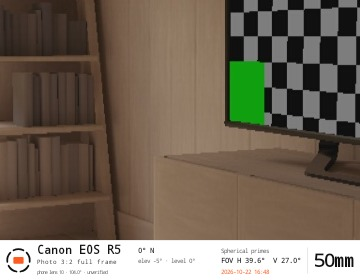
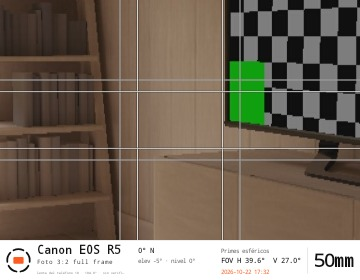
Las guías de composición salen también en las fotos, dentro del marco (v0.2.10-beta)

diff --git a/app/src/main/java/app/mado/data/PhotoAnnotator.kt b/app/src/main/java/app/mado/data/PhotoAnnotator.kt
@@ -10,6 +10,7 @@ import android.graphics.Rect
 import android.graphics.RectF
 import android.graphics.Typeface
 import app.mado.optics.Framing
+import app.mado.optics.Guide
 import java.io.ByteArrayOutputStream
 import kotlin.math.roundToInt
 
@@ -40,7 +41,7 @@ object PhotoAnnotator {
     private const val NEUTRAL = 0xFFB8B8B4.toInt()
 
     // ---------- Vista general: foto + todos los recuadros ----------
-    fun overview(jpeg: ByteArray, rotationDeg: Int, frames: List<AnnotFrame>, info: BarInfo): ByteArray {
+    fun overview(jpeg: ByteArray, rotationDeg: Int, frames: List<AnnotFrame>, info: BarInfo, guides: Set<Guide> = emptySet()): ByteArray {
         val photo = decodeRotated(jpeg, rotationDeg, sample = 2)
         val w = photo.width; val h = photo.height
         val unit = w / 38f                                   // marcos y etiquetas
@@ -75,14 +76,19 @@ object PhotoAnnotator {
             tagText.color = if (af.current) Color.BLACK else Color.WHITE
             c.drawText(text, l + unit * 0.35f, t + th * 0.78f, tagText)
         }
+        // Guías de composición dentro del encuadre actual.
+        frames.firstOrNull { it.current }?.let { cur ->
+            val gw = cur.frame.widthFrac.toFloat() * iw; val gh = cur.frame.heightFrac.toFloat() * ih
+            drawGuides(c, guides, w / 2f - gw / 2f, h / 2f - gh / 2f, gw, gh, unit / 12f)
+        }
         drawInfoBar(c, w.toFloat(), h.toFloat(), bar, barUnit, info)
         photo.recycle()
         return encode(out)
     }
 
     // ---------- Plano: la foto recortada al encuadre actual ----------
-    fun plano(jpeg: ByteArray, rotationDeg: Int, frames: List<AnnotFrame>, info: BarInfo): ByteArray {
-        val cur = frames.firstOrNull { it.current }?.frame ?: return overview(jpeg, rotationDeg, frames, info)
+    fun plano(jpeg: ByteArray, rotationDeg: Int, frames: List<AnnotFrame>, info: BarInfo, guides: Set<Guide> = emptySet()): ByteArray {
+        val cur = frames.firstOrNull { it.current }?.frame ?: return overview(jpeg, rotationDeg, frames, info, guides)
         val size = BitmapFactory.Options().apply { inJustDecodeBounds = true }.also { BitmapFactory.decodeByteArray(jpeg, 0, jpeg.size, it) }
         val rotated90 = rotationDeg % 180 != 0
         val W = if (rotated90) size.outHeight else size.outWidth      // medidas de la foto ya girada
@@ -125,6 +131,7 @@ object PhotoAnnotator {
         val c = Canvas(out)
         c.drawColor(PAPER)
         c.drawBitmap(body, 0f, 0f, null)
+        drawGuides(c, guides, 0f, 0f, w.toFloat(), h.toFloat(), unit / 8f)
         drawInfoBar(c, w.toFloat(), h.toFloat(), bar, unit, info)
         body.recycle()
         return encode(out)
@@ -147,6 +154,29 @@ object PhotoAnnotator {
     }
 
     private fun barHeight(unit: Float) = unit * 5.9f
+
+    private const val PHI_INV = 0.6180339887f
+
+    /** Guías de composición dentro del rectángulo (l, t, w, h): línea blanca con un borde oscuro para que se vea sobre cualquier fondo. */
+    private fun drawGuides(c: Canvas, guides: Set<Guide>, l: Float, t: Float, w: Float, h: Float, stroke: Float) {
+        if (guides.isEmpty()) return
+        val dark = Paint(Paint.ANTI_ALIAS_FLAG).apply { color = Color.argb(110, 0, 0, 0); style = Paint.Style.STROKE; strokeWidth = stroke * 2.4f }
+        val light = Paint(Paint.ANTI_ALIAS_FLAG).apply { color = Color.argb(235, 255, 255, 255); style = Paint.Style.STROKE; strokeWidth = stroke }
+        fun line(x1: Float, y1: Float, x2: Float, y2: Float) { c.drawLine(x1, y1, x2, y2, dark); c.drawLine(x1, y1, x2, y2, light) }
+        fun v(f: Float) = line(l + w * f, t, l + w * f, t + h)
+        fun hz(f: Float) = line(l, t + h * f, l + w, t + h * f)
+        if (Guide.THIRDS in guides) { v(1f / 3); v(2f / 3); hz(1f / 3); hz(2f / 3) }
+        if (Guide.GOLDEN in guides) { v(1f - PHI_INV); v(PHI_INV); hz(1f - PHI_INV); hz(PHI_INV) }
+        if (Guide.GRID in guides) for (i in 1..3) { v(i / 4f); hz(i / 4f) }
+        if (Guide.CROSS in guides) {
+            val cx = l + w / 2f; val cy = t + h / 2f; val a = minOf(w, h) * 0.05f
+            line(cx - a, cy, cx + a, cy); line(cx, cy - a, cx, cy + a)
+        }
+        if (Guide.SAFE in guides) for (f in listOf(0.93f, 0.90f)) {
+            val rl = l + w * (1 - f) / 2f; val rt = t + h * (1 - f) / 2f
+            c.drawRect(rl, rt, rl + w * f, rt + h * f, dark); c.drawRect(rl, rt, rl + w * f, rt + h * f, light)
+        }
+    }
 
     /** Reduce el texto hasta que quepa; si aun así no cabe, lo corta con «…». */
     private fun fit(p: Paint, text: String, maxW: Float, minSize: Float): String {

diff --git a/app/src/main/java/app/mado/ui/FovScreen.kt b/app/src/main/java/app/mado/ui/FovScreen.kt
@@ -97,6 +97,7 @@ import app.mado.diagnostics.CameraInfo
 import app.mado.diagnostics.DiagnosticsReport
 import app.mado.diagnostics.FovResults
 import app.mado.optics.Fov
+import app.mado.optics.Guide
 import app.mado.optics.Framing
 import org.json.JSONObject
 import java.time.Instant
@@ -359,6 +360,8 @@ fun FovScreen(
                 .put("padding", frame?.padding))
             pose?.let { put("orientation", JSONObject().put("heading_deg_magnetic", it.headingDeg).put("elevation_deg", it.elevationDeg).put("level_deg", it.levelDeg)) }
         }
+        val guidesNow = framing.guides                              // las guías elegidas van también en las fotos
+        meta.put("guides", org.json.JSONArray(guidesNow.map { it.name }))
         val annotFrames = frameDraws.map { app.mado.data.AnnotFrame(it.label, it.frame, it.current, it.detail) }
         val anglesText = target?.let {
             val v = Math.toDegrees(2.0 * kotlin.math.atan(kotlin.math.tan(it.hFovRad / 2.0) / it.aspect))
@@ -382,9 +385,9 @@ fun FovScreen(
                             val saved = withContext(Dispatchers.IO) {
                                 // Dos archivos con la barra de datos: la foto con los recuadros del kit y el plano recortado al encuadre.
                                 // (No se guarda la foto sin gráficos: es la misma imagen que la primera.)
-                                val overview = PhotoAnnotator.overview(result.jpeg, result.rotationDeg, annotFrames, info)
+                                val overview = PhotoAnnotator.overview(result.jpeg, result.rotationDeg, annotFrames, info, guidesNow)
                                 val marco = PhotoSaver.save(ctx, overview, 0, meta, now, suffix = "_marco", location = loc, headingDeg = pose?.headingDeg)
-                                val plano = PhotoAnnotator.plano(result.jpeg, result.rotationDeg, annotFrames, info)
+                                val plano = PhotoAnnotator.plano(result.jpeg, result.rotationDeg, annotFrames, info, guidesNow)
                                 PhotoSaver.save(ctx, plano, 0, meta, now, suffix = "_plano", location = loc, headingDeg = pose?.headingDeg)
                                 marco
                             }

diff --git a/app/src/main/java/app/mado/ui/FramingState.kt b/app/src/main/java/app/mado/ui/FramingState.kt
@@ -8,10 +8,8 @@ import app.mado.data.Camera
 import app.mado.data.CameraDb
 import app.mado.data.loc
 import app.mado.optics.Fov
+import app.mado.optics.Guide
 import app.mado.optics.Framing
-
-/** Guías de composición que se dibujan dentro del encuadre actual. */
-enum class Guide { THIRDS, GOLDEN, CROSS, GRID, SAFE }
 
 /** Selección del usuario para el modo marco: cámara, modo de grabación, juego de lentes y focal. */
 class FramingState(val db: CameraDb) {

diff --git a/app/src/main/java/app/mado/ui/FramingUi.kt b/app/src/main/java/app/mado/ui/FramingUi.kt
@@ -45,6 +45,7 @@ import app.mado.camera.ThermalGuard
 import app.mado.data.loc
 import app.mado.diagnostics.CameraInfo
 import app.mado.optics.Fov
+import app.mado.optics.Guide
 import app.mado.optics.Framing
 import java.util.Locale
 import kotlin.math.atan

diff --git a/app/src/main/java/app/mado/optics/Guide.kt b/app/src/main/java/app/mado/optics/Guide.kt
@@ -1,0 +1,4 @@
+package app.mado.optics
+
+/** Guías de composición que se dibujan dentro del encuadre actual (en el visor y en las fotos). */
+enum class Guide { THIRDS, GOLDEN, CROSS, GRID, SAFE }

diff --git a/README.md b/README.md
@@ -34,7 +34,7 @@ Elige una cámara, un modo de grabación y una focal, y Mado dibuja sobre el vis
 
 - **Visor (pantalla de inicio):** dibuja sobre el visor los recuadros de **todas las focales de tu kit a la vez** (por ejemplo 24, 35, 50 y 85), con la actual en naranja y sin oscurecer lo de afuera. Sensor, modo de grabación y anamórfico (el *squeeze* suma al aspecto) salen de la cámara elegida. Si el campo de la focal más ancha supera al del teléfono, la imagen del teléfono se achica y ese recuadro llena el visor.
 - **Visor a pantalla completa:** la imagen ocupa todo el ancho (vertical) o todo el alto (horizontal). Arriba a la izquierda, la cámara y el modo elegidos: **tocarlos abre la configuración** (cámara, modo, lentes, kit, ubicación). Abajo, **◀ focal ▶** y el obturador. La cámara usa una proporción parecida a la de tu pantalla, así que la imagen la llena casi toda. **Doble toque en la imagen** alterna la vista recortada: el encuadre actual llena el visor, «como saldría», con cámara, modo, focal y FOV H/V encima. Los recuadros son siempre horizontales, también con el teléfono en vertical. **Un toque** enfoca y mide la exposición en ese punto; en el panel hay una **compensación de exposición (EV)**. Un botón grande en el centro inicia la cámara; **■** la detiene y **☰** abre el menú. Pensado para pantallas chicas y de baja resolución.
-- **Guías de composición** dentro del encuadre actual: tercios, **proporción áurea**, cruz central, cuadrícula y zonas seguras (se eligen en el panel y se recuerdan). El menú ☰ muestra el logo, el nombre y la versión de la app.
+- **Guías de composición** dentro del encuadre actual: tercios, **proporción áurea**, cruz central, cuadrícula y zonas seguras (se eligen en el panel y se recuerdan) y **también salen en las fotos guardadas**, dentro del marco elegido. El menú ☰ muestra el logo, el nombre y la versión de la app.
 - **Una sola lente del teléfono a la vez**, fija, para que Android no cambie de lente sola y descuadre el cálculo.
 - **Captura de foto:** cada toma guarda **dos archivos** a resolución completa, con los datos también en el EXIF: la foto **con los recuadros del kit** (la focal actual en naranja, con su medida) y el **plano recortado exactamente al encuadre**, listo para storyboard. Los dos llevan una barra blanca con el logo; a la izquierda el **nombre de la cámara en grande**, el modo de grabación y la lente del teléfono; al centro la **brújula** (rumbo, elevación y nivel) y, si lo activas, la **ubicación**; a la derecha el juego de lentes, el campo de visión **FOV H/V** (horizontal y vertical), la fecha y la **focal en grande**. La ubicación es opcional, pide permiso y se lee una sola vez al disparar.
 - **Calibrar lentes** (menú ☰): mide el campo real de cada lente contra el calculado (regla teórica en el visor) y guarda las mediciones.

diff --git a/README.en.md b/README.en.md
@@ -34,7 +34,7 @@ Pick a camera, a recording mode and a focal length, and Mado draws on the viewfi
 
 - **Viewfinder (start screen):** draws **all the focal lengths of your kit at once** over the viewfinder (for example 24, 35, 50 and 85), the current one in orange, without dimming the outside. Sensor, recording mode and anamorphic squeeze (it multiplies the aspect) come from the chosen camera. If the widest focal length's field exceeds the phone's, the phone image shrinks and that frame fills the viewfinder.
 - **Full-screen viewfinder:** the image fills the full width (portrait) or full height (landscape). Top left, the chosen camera and mode: **tapping them opens the setup** (camera, mode, lenses, kit, location). Below, **◀ focal ▶** and the shutter. The camera uses a shape close to your screen's, so the image fills almost all of it. **Double-tapping the image** toggles the cropped view: the current frame fills the viewfinder, "as it would turn out", with camera, mode, focal length and FOV H/V on top. Frames are always horizontal, also with the phone held upright. **A single tap** focuses and meters at that point; the panel has an **exposure compensation (EV)**. A big button in the centre starts the camera; **■** stops it and **☰** opens the menu. Designed for small, low-resolution screens.
-- **Composition guides** inside the current frame: rule of thirds, **golden ratio**, centre cross, grid and safe areas (chosen in the panel and remembered). The ☰ menu shows the app's logo, name and version.
+- **Composition guides** inside the current frame: rule of thirds, **golden ratio**, centre cross, grid and safe areas (chosen in the panel and remembered), and they **also appear in the saved photos**, inside the chosen frame. The ☰ menu shows the app's logo, name and version.
 - **One fixed phone lens at a time**, so Android never switches lenses by itself and throws off the maths.
 - **Photo capture:** every shot saves **two full-resolution files**, with the data also in the EXIF: the photo **with the kit frames** (current focal length in orange, with its measure) and the **shot cropped exactly to the frame**, ready for a storyboard. Both carry a white bar with the logo; on the left the **camera name in large type**, the recording mode and the phone lens; in the centre the **compass** (heading, elevation and level) and, if you turn it on, the **location**; on the right the lens set, the **FOV H/V** field of view (horizontal and vertical), the date and the **focal length in large type**. Location is optional, asks for permission and is read once when you shoot.
 - **Calibrate lenses** (☰ menu): measures each lens's real field against the calculated one and saves the readings.
